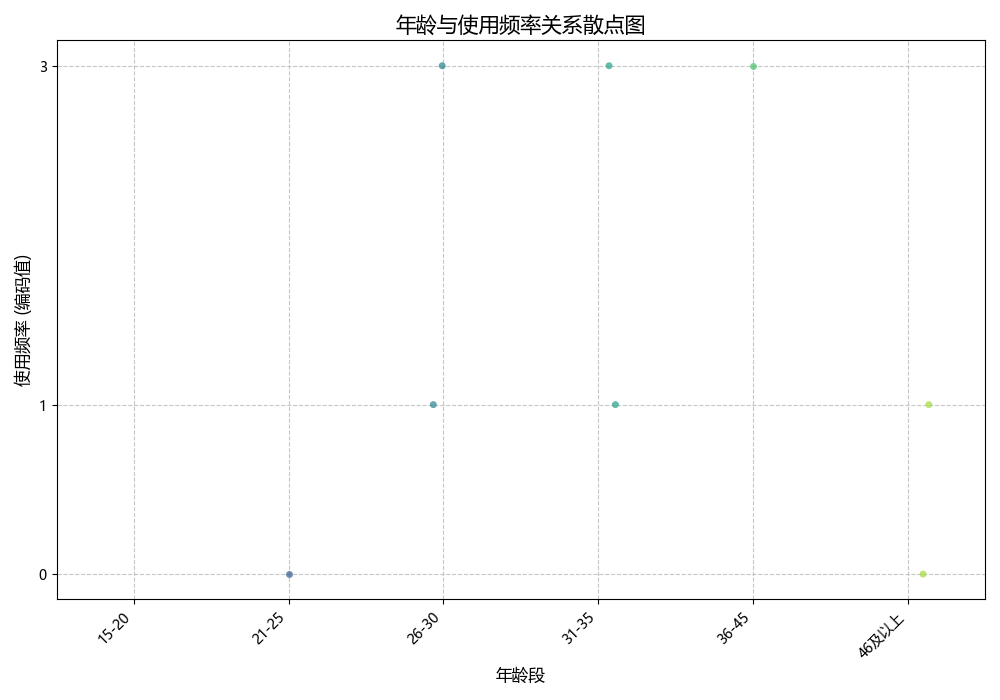
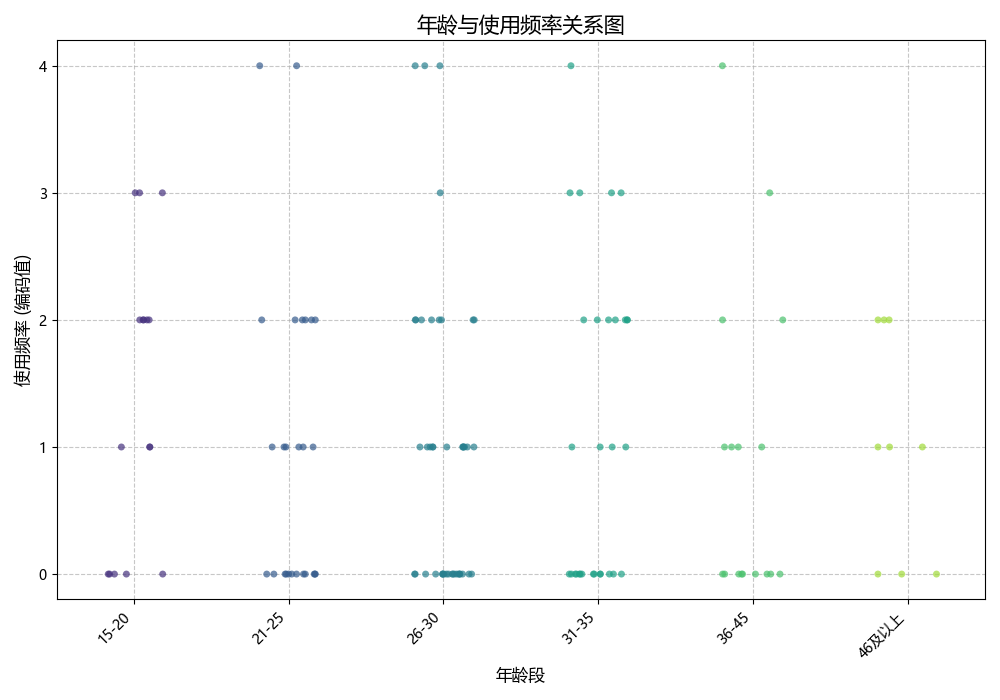
可视化展示计划

diff --git a/可视化展示计划.py b/可视化展示计划.py
@@ -1,16 +1,15 @@
-import os
-
+import pandas as pd
 import matplotlib.pyplot as plt
 import numpy as np
-import pandas as pd
+import os
 import seaborn as sns
-from sklearn.cluster import KMeans
 from sklearn.preprocessing import StandardScaler
+from sklearn.cluster import KMeans
 
 # from yellowbrick.cluster import KElbowVisualizer # 可选，用于更复杂的K值选择
 
 # --- 全局设置与文件夹创建 ---
-plt.rcParams['font.sans-serif'] = ['Microsoft YaHei']  # Windows系统中的黑体
+plt.rcParams['font.sans-serif'] = ['Microsoft YaHei']
 plt.rcParams['axes.unicode_minus'] = False  # 解决负号'-'显示为方块的问题
 
 output_folder_viz = "可视化图表文件夹"
@@ -21,9 +20,9 @@ if not os.path.exists(output_folder_viz):
 # --- 数据加载与预处理 ---
 print("--- 正在加载和预处理数据... ---")
 try:
-    df = pd.read_csv("数据详情值精简.csv")
+    df = pd.read_csv("数据详情值.csv")
 except FileNotFoundError:
-    print("错误：未找到 '数据详情值精简.csv' 文件。请确保文件与脚本在同一目录下，或提供正确路径。")
+    print("错误：未找到 '数据详情值.csv' 文件。请确保文件与脚本在同一目录下，或提供正确路径。")
     exit()
 
 df.dropna(how='all', inplace=True)
@@ -41,13 +40,13 @@ usage_frequency_col_actual = '3.**过去30天**您使用回收箱的次数'
 gender_col = '7.您的性别'
 age_col = '8.您的年龄'
 education_col = '9.您的最高学历'
-occupation_col = '10.您的职业'  # 虽然没在可视化计划中直接用，但清洗一下无妨
+occupation_col = '10.您的职业'
 likert_q_prefixes = [f"{i}." for i in range(11, 21)]
 obstacle_cols_raw_prefix = '5.您在使用回收箱时遇到的**主要障碍**（可多选）:'
 obstacle_items = ['位置不便', '排队/拥堵', '不清楚可回收物', '无奖励', '卫生差', '担心信息泄露', '其他']
 incentive_interest_cols_prefix = '19.激励方案兴趣度:'
 geo_province_col = '地理位置省'
-geo_city_col = '地理位置市'  # 备用
+geo_city_col = '地理位置市'
 
 # --- 应用前缀清洗 ---
 cols_to_clean_prefix = [
@@ -68,10 +67,10 @@ else:
 
 # 年龄 (用于散点图)
 age_mapping = {"15-20": 0, "21-25": 1, "26-30": 2, "31-35": 3, "36-45": 4, "46及以上": 5}
-age_category_order = ["15-20", "21-25", "26-30", "31-35", "36-45", "46及以上"]  # 用于散点图标签
+age_category_order = ["15-20", "21-25", "26-30", "31-35", "36-45", "46及以上"]
 if age_col in df.columns:
     df['年龄_数值'] = df[age_col].map(age_mapping)
-    df[age_col] = pd.Categorical(df[age_col], categories=age_category_order, ordered=True)  # 保证年龄顺序
+    df[age_col] = pd.Categorical(df[age_col], categories=age_category_order, ordered=True)
 
 # Likert量表映射
 likert_mapping = {"非常不同意": 1, "不同意": 2, "一般": 3, "同意": 4, "非常同意": 5}
@@ -109,11 +108,11 @@ incentive_mean_scores = {}
 if incentive_cols_actual:
     for col in incentive_cols_actual:
         incentive_name = col.split(':')[-1]
-        incentive_mean_scores[incentive_name] = df[col].mean()  # 计算每种激励的平均兴趣度
+        incentive_mean_scores[incentive_name] = df[col].mean()
 
 print("--- 数据加载与预处理完成 ---")
 print(f"总样本数: {len(df)}")
-if len(df) < 30:  # 样本量过小可能导致很多图表意义不大或出错
+if len(df) < 30:
     print(f"警告: 当前样本量 ({len(df)}) 非常小，部分图表可能无法有效生成或缺乏统计意义。")
 print("\n" + "=" * 60 + "\n")
 
@@ -133,7 +132,11 @@ for col_name, title in demographic_pie_charts.items():
     if col_name in df.columns and not df[col_name].dropna().empty:
         plt.figure(figsize=(8, 8))
         counts = df[col_name].value_counts()
-        plt.pie(counts, labels=counts.index, autopct='%1.1f%%', startangle=140, textprops={'fontsize': 10})
+        # 确保标签和计数的顺序一致，特别是对于已排序的分类变量（如年龄）
+        if isinstance(df[col_name].dtype, pd.CategoricalDtype) and df[col_name].cat.ordered:
+            counts = counts.reindex(df[col_name].cat.categories)
+        plt.pie(counts.dropna(), labels=counts.dropna().index, autopct='%1.1f%%', startangle=140,
+                textprops={'fontsize': 10})
         plt.title(title, fontsize=15)
         plt.axis('equal')
         filepath = os.path.join(output_folder_viz, f"{title.replace(' ', '_')}.png")
@@ -150,7 +153,7 @@ obstacle_counts = {}
 for item in obstacle_items:
     col_name = f"{obstacle_cols_raw_prefix}{item}"
     if col_name in df.columns:
-        obstacle_counts[item] = df[col_name].count()  # count() 统计非NaN的数量，即被提及的次数
+        obstacle_counts[item] = df[col_name].count()
 
 if obstacle_counts:
     obstacle_series = pd.Series(obstacle_counts).sort_values(ascending=False)
@@ -176,7 +179,7 @@ else:
 # 1.3 激励偏好排序柱状图
 print("\n  生成激励偏好排序柱状图...")
 if incentive_mean_scores:
-    incentive_pref_series = pd.Series(incentive_mean_scores).dropna().sort_values(ascending=True)  # 升序，barh从上往下是高到低
+    incentive_pref_series = pd.Series(incentive_mean_scores).dropna().sort_values(ascending=True)
     if not incentive_pref_series.empty:
         plt.figure(figsize=(12, 8))
         incentive_pref_series.plot(kind='barh', color='lightcoral')
@@ -196,16 +199,10 @@ if incentive_mean_scores:
 else:
     print("    无法生成激励偏好排序柱状图：未计算激励方案平均兴趣度。")
 
-# 1.4 使用频率分布直方图 (实际为分类条形图)
+# 1.4 使用频率分布图 (分类条形图)
 print("\n  生成使用频率分布图...")
-if '使用频率_数值' in df.columns and not df[usage_frequency_col_actual].dropna().empty:
+if usage_frequency_col_actual in df.columns and not df[usage_frequency_col_actual].dropna().empty:
     plt.figure(figsize=(10, 6))
-    # 使用原始分类文本作为标签，但基于数值排序
-    usage_counts_display = df[usage_frequency_col_actual].value_counts()
-    # 为了按实际顺序排序（0次, 1-2次 ...），我们需要映射回原始标签并排序
-    # 或者直接用数值列的value_counts().sort_index()然后替换x轴标签
-
-    # 使用原始文本标签进行计数和绘图，确保顺序正确
     usage_order = ["0次", "1-2次", "3-5次", "6-10次", "10次以上"]
     df_usage_temp = df[[usage_frequency_col_actual]].copy()
     df_usage_temp[usage_frequency_col_actual] = pd.Categorical(
@@ -236,22 +233,26 @@ else:
 print("\n" + "=" * 60 + "\n")
 print("--- 正在生成关系图表 ---")
 
-# 2.1 年龄-使用频率散点图
+# 2.1 年龄-使用频率散点图 (stripplot)
 print("\n  生成年龄-使用频率散点图...")
-if '年龄_数值' in df.columns and '使用频率_数值' in df.columns:
-    df_scatter = df[['年龄_数值', '使用频率_数值', age_col]].copy().dropna()  # age_col 用于x轴标签
+if age_col in df.columns and '使用频率_数值' in df.columns:  # 使用原始年龄分类列 age_col
+    df_scatter = df[[age_col, '使用频率_数值']].copy().dropna()
     if not df_scatter.empty:
         plt.figure(figsize=(10, 7))
-        # 为了更好的可视化，可以添加抖动，但简单散点图也可
-        sns.stripplot(x=age_col, y='使用频率_数值', data=df_scatter, order=age_category_order, jitter=0.2,
-                      palette="viridis", alpha=0.7)
-        # plt.scatter(df_scatter['年龄_数值'], df_scatter['使用频率_数值'], alpha=0.6, color='dodgerblue')
-        plt.title('年龄与使用频率关系散点图', fontsize=15)
+        # 按照 FutureWarning 的建议修改 stripplot 调用
+        sns.stripplot(x=age_col, y='使用频率_数值', data=df_scatter,
+                      order=age_category_order,  # 确保x轴顺序
+                      hue=age_col,  # 将x变量赋给hue
+                      palette="viridis",  # 调色板
+                      jitter=0.2,
+                      alpha=0.7,
+                      legend=False  # 关闭图例，因为hue与x相同
+                      )
+        plt.title('年龄与使用频率关系图', fontsize=15)  # 保持散点图的称呼，但用stripplot实现
         plt.xlabel('年龄段', fontsize=12)
         plt.ylabel('使用频率 (编码值)', fontsize=12)
-        # plt.xticks(ticks=range(len(age_category_order)), labels=age_category_order, rotation=45, ha='right', fontsize=10)
         plt.xticks(rotation=45, ha='right', fontsize=10)
-        plt.yticks(ticks=sorted(df['使用频率_数值'].dropna().unique()), fontsize=10)  # 使用实际的频率编码值作为刻度
+        plt.yticks(ticks=sorted(df['使用频率_数值'].dropna().unique()), fontsize=10)
         plt.grid(True, linestyle='--', alpha=0.7)
         plt.tight_layout()
         filepath = os.path.join(output_folder_viz, "年龄_使用频率散点图.png")
@@ -266,18 +267,15 @@ else:
 
 # 2.2 心理因素与使用意愿关系热力图
 print("\n  生成心理因素与使用意愿关系热力图...")
-# 选择所有心理维度平均分和未来使用意向平均分
-cols_for_heatmap = [col for col in psych_dim_mean_cols if
-                    col in df.columns and col != '未来使用意向_平均分']  # 排除未来意向本身
-if '未来使用意向_平均分' in df.columns:
+cols_for_heatmap = [col for col in psych_dim_mean_cols if col in df.columns and col != '未来使用意向_平均分']
+if '未来使用意向_平均分' in df.columns and df['未来使用意向_平均分'].notna().any():
     cols_for_heatmap.append('未来使用意向_平均分')
 
 if len(cols_for_heatmap) > 1:
     df_heatmap_data = df[cols_for_heatmap].dropna()
     if not df_heatmap_data.empty and len(df_heatmap_data) >= 2:
-        correlation_matrix = df_heatmap_data.corr(method='spearman')  # 使用Spearman相关性
+        correlation_matrix = df_heatmap_data.corr(method='spearman')
         plt.figure(figsize=(12, 10))
-        # 清理列名，去除"_平均分"
         cleaned_labels_heatmap = [label.replace('_平均分', '') for label in correlation_matrix.columns]
         sns.heatmap(correlation_matrix, annot=True, cmap='coolwarm', fmt=".2f", linewidths=.5,
                     xticklabels=cleaned_labels_heatmap, yticklabels=cleaned_labels_heatmap,
@@ -298,11 +296,14 @@ else:
 
 # 2.3 不同激励方案效果比较雷达图 (基于平均兴趣度)
 print("\n  生成不同激励方案效果比较雷达图...")
-if incentive_mean_scores:
-    labels_radar_incentive = list(incentive_mean_scores.keys())
-    stats_radar_incentive = list(incentive_mean_scores.values())
+if incentive_mean_scores:  # 确保 incentive_mean_scores 已被计算且非空
+    # 过滤掉NaN或无效的平均分
+    valid_incentive_scores = {k: v for k, v in incentive_mean_scores.items() if pd.notna(v)}
 
-    if labels_radar_incentive and len(labels_radar_incentive) >= 3:  # 雷达图至少需要3个轴
+    if valid_incentive_scores and len(valid_incentive_scores) >= 3:
+        labels_radar_incentive = list(valid_incentive_scores.keys())
+        stats_radar_incentive = list(valid_incentive_scores.values())
+
         angles = np.linspace(0, 2 * np.pi, len(labels_radar_incentive), endpoint=False).tolist()
         stats_closed = np.concatenate((stats_radar_incentive, [stats_radar_incentive[0]]))
         angles_closed = angles + [angles[0]]
@@ -312,7 +313,7 @@ if incentive_mean_scores:
         ax.fill(angles_closed, stats_closed, 'crimson', alpha=0.25)
         ax.set_thetagrids(np.degrees(angles), labels_radar_incentive, fontsize=10)
         ax.set_title('不同激励方案平均兴趣度比较雷达图', size=16, y=1.1)
-        ax.set_yticks(np.arange(1, 6, 1))  # 假设评分是1-5
+        ax.set_yticks(np.arange(1, 6, 1))
         ax.set_ylim(0, 5)
         plt.legend(loc='upper right', bbox_to_anchor=(0.1, 0.1))
         filepath = os.path.join(output_folder_viz, "激励方案效果雷达图.png")
@@ -323,59 +324,58 @@ if incentive_mean_scores:
     else:
         print("    无法生成激励方案效果雷达图：有效的激励方案不足3个或数据为空。")
 else:
-    print("    无法生成激励方案效果雷达图：未计算激励方案平均兴趣度。")
+    print("    无法生成激励方案效果雷达图：未计算激励方案平均兴趣度或结果为空。")
 
 # 2.4 用户分群特征雷达图
 print("\n  生成用户分群特征雷达图...")
-# 简化版K-Means聚类 (与多变量分析脚本类似，但更精简)
 features_for_clustering_viz = ['使用频率_数值'] + [col for col in psych_dim_mean_cols if
                                                    col in df.columns and col != '未来使用意向_平均分']
 df_for_k_means = df[features_for_clustering_viz].copy().dropna()
 
-if not df_for_k_means.empty and len(df_for_k_means) >= 3:  # 假设至少需要3个样本才能分出有意义的簇
+if not df_for_k_means.empty and len(df_for_k_means) >= 3:
     scaler_viz = StandardScaler()
     df_k_means_scaled_array = scaler_viz.fit_transform(df_for_k_means)
 
-    # 固定K=3进行演示，实际应用中K值选择需要更严谨
     k_clusters = 3
-    if len(df_for_k_means) < k_clusters:  # 如果样本数少于K，调整K
-        k_clusters = max(2, len(df_for_k_means))  # 至少2个簇，或等于样本数（如果样本只有2）
+    if len(df_for_k_means) < k_clusters:
+        k_clusters = max(2, len(df_for_k_means))
         print(f"    聚类警告: 样本量不足以分为3个簇，调整为K={k_clusters}")
 
-    if k_clusters >= 2:  # 确保至少可以分为2个簇
+    if k_clusters >= 2:
         kmeans_viz = KMeans(n_clusters=k_clusters, random_state=42, n_init='auto')
         cluster_labels = kmeans_viz.fit_predict(df_k_means_scaled_array)
         df_for_k_means['用户分群'] = cluster_labels
 
         cluster_profiles_viz = df_for_k_means.groupby('用户分群').mean()
 
-        # 准备雷达图数据
         radar_labels_cluster = cluster_profiles_viz.columns.tolist()
         radar_labels_cluster_cleaned = [label.replace('_平均分', '').replace('_数值', '') for label in
                                         radar_labels_cluster]
 
-        if len(radar_labels_cluster) >= 3:  # 雷达图至少3个轴
+        if len(radar_labels_cluster) >= 3:
             angles_cluster = np.linspace(0, 2 * np.pi, len(radar_labels_cluster), endpoint=False).tolist()
             angles_cluster_closed = angles_cluster + [angles_cluster[0]]
 
             fig_cluster, ax_cluster = plt.subplots(figsize=(12, 12), subplot_kw=dict(polar=True))
-            colors = ['royalblue', 'forestgreen', 'darkorange', 'purple', 'brown']  # 为不同簇准备颜色
+            colors = ['royalblue', 'forestgreen', 'darkorange', 'purple', 'brown']
 
             for i, (cluster_id, row) in enumerate(cluster_profiles_viz.iterrows()):
                 stats_cluster = row.values.flatten().tolist()
                 stats_cluster_closed = np.concatenate((stats_cluster, [stats_cluster[0]]))
                 ax_cluster.plot(angles_cluster_closed, stats_cluster_closed, linewidth=2, linestyle='solid',
-                                label=f'用户群 {cluster_id} (N={df_for_k_means["用户分群"].value_counts()[cluster_id]})',
+                                label=f'用户群 {cluster_id} (N={df_for_k_means["用户分群"].value_counts().get(cluster_id, 0)})',
                                 color=colors[i % len(colors)])
                 ax_cluster.fill(angles_cluster_closed, stats_cluster_closed, alpha=0.15, color=colors[i % len(colors)])
 
             ax_cluster.set_thetagrids(np.degrees(angles_cluster), radar_labels_cluster_cleaned, fontsize=10)
             ax_cluster.set_title(f'用户分群特征雷达图 (K={k_clusters}, 均值为原始值)', size=16, y=1.1)
-            # 根据特征的原始值范围调整Y轴，这里假设大部分是1-5的评分和0-4的频率
-            # 如果特征值范围差异大，雷达图效果可能不好，或需要分别标准化后再画（但这里展示的是原始均值）
-            # ax_cluster.set_ylim(0, max(cluster_profiles_viz.max().max(), 5)) # 动态调整Y轴上限
-            ax_cluster.set_yticks(
-                np.linspace(min(0, cluster_profiles_viz.min().min()), max(5, cluster_profiles_viz.max().max()), 6))
+
+            # 动态调整Y轴范围，确保所有数据点可见
+            all_profile_values = cluster_profiles_viz.values.flatten()
+            y_min = min(0, np.nanmin(all_profile_values)) if len(all_profile_values) > 0 else 0
+            y_max = max(5, np.nanmax(all_profile_values)) if len(all_profile_values) > 0 else 5
+            ax_cluster.set_yticks(np.linspace(y_min, y_max, 6))
+            ax_cluster.set_ylim(y_min, y_max)
 
             plt.legend(loc='upper right', bbox_to_anchor=(0.15, 0.1), fontsize=10)
             filepath = os.path.join(output_folder_viz, "用户分群特征雷达图.png")
@@ -401,10 +401,8 @@ print("\n  生成按省份的平均使用频率图...")
 if geo_province_col in df.columns and '使用频率_数值' in df.columns:
     df_geo = df[[geo_province_col, '使用频率_数值']].copy().dropna()
     if not df_geo.empty:
-        # 统计各省份的样本量
         province_counts = df_geo[geo_province_col].value_counts()
-        # 筛选出样本量大于等于某个阈值（例如5）的省份，避免样本过少导致均值不稳
-        provinces_to_include = province_counts[province_counts >= 5].index.tolist()
+        provinces_to_include = province_counts[province_counts >= 5].index.tolist()  # 阈值设为5
 
         if provinces_to_include:
             df_geo_filtered = df_geo[df_geo[geo_province_col].isin(provinces_to_include)]
@@ -412,7 +410,7 @@ if geo_province_col in df.columns and '使用频率_数值' in df.columns:
                 ascending=True)
 
             if not avg_usage_by_province.empty:
-                plt.figure(figsize=(10, max(6, len(avg_usage_by_province) * 0.5)))  # 动态调整高度
+                plt.figure(figsize=(10, max(6, len(avg_usage_by_province) * 0.5)))
                 avg_usage_by_province.plot(kind='barh', color='teal')
                 plt.title('各省份平均回收箱使用频率 (样本量≥5的省份)', fontsize=15)
                 plt.xlabel('平均使用频率 (编码值)', fontsize=12)
